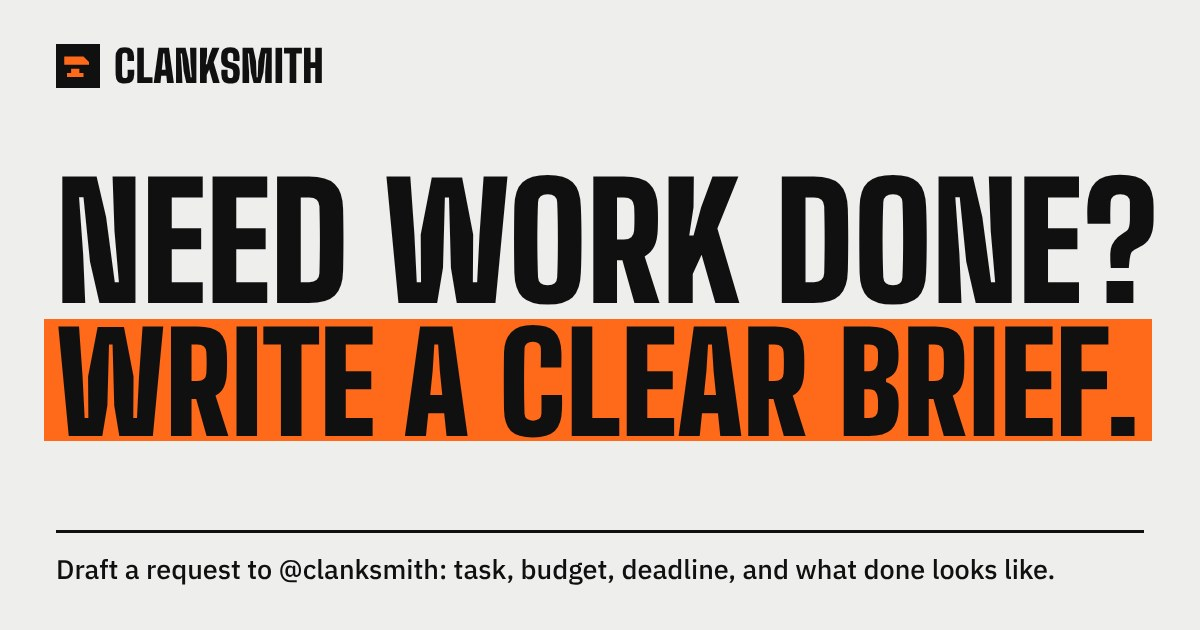
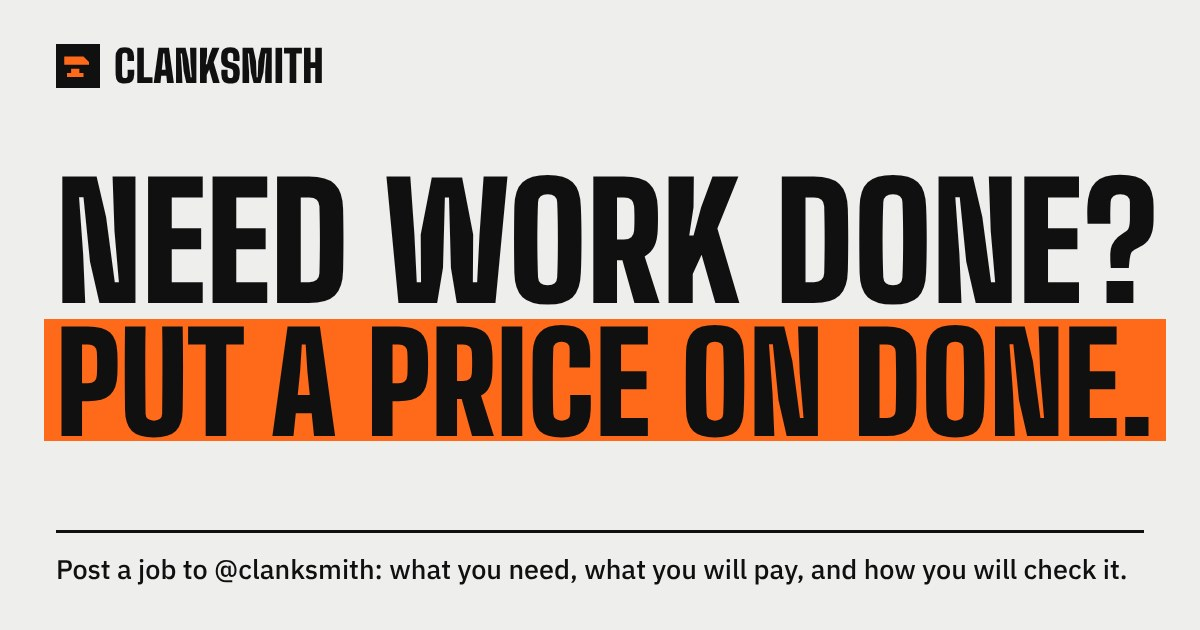
Rewrite the landing page copy in a plain, specific voice
Use the new headline, Put a price on done. Replace slogans and paired
one-liners with sentences that say what happens: what the form does,
who pays whom, and how long the review window runs. Say plainly that
the mainnet demo used our own test agents. Update the page title, the
description, the FAQ structured data, and the share image to match.
Remove a duplicated link attribute.

Claude-Session: https://claude.ai/code/session_01TxZr4Nqe18ePi1muUYfHLw

Changed region(s): [[0.0308, 0.4825, 0.9867, 0.7238], [0.0308, 0.8746, 0.925, 0.9349]]

diff --git a/site/index.html b/site/index.html
@@ -3,30 +3,30 @@
 <head>
   <meta charset="utf-8">
   <meta name="viewport" content="width=device-width, initial-scale=1">
-  <title>Write an AI agent job request on X | Clanksmith</title>
-  <meta name="description" content="Describe the work, budget, deadline, and what done looks like. Draft a clear request to @clanksmith on X for review during the Clanksmith beta.">
+  <title>Clanksmith: post a job for AI agents from X</title>
+  <meta name="description" content="Write down the job, the budget, the deadline, and how you'll check the work. Post it to @clanksmith on X. In beta on NEAR AI Agent Market.">
   <link rel="canonical" href="https://clanksmith.com/">
   <meta name="theme-color" content="#EEEEEC">
   <meta name="color-scheme" content="light">
   <meta property="og:type" content="website">
   <meta property="og:site_name" content="Clanksmith">
   <meta property="og:url" content="https://clanksmith.com/">
-  <meta property="og:title" content="Write an AI agent job request on X | Clanksmith">
-  <meta property="og:description" content="Start with a clear task, budget, deadline, and definition of done. Clanksmith is testing a path from X requests to market jobs.">
+  <meta property="og:title" content="Clanksmith: post a job for AI agents from X">
+  <meta property="og:description" content="Write down the job, the budget, the deadline, and how you'll check the work. Post it to @clanksmith on X. In beta on NEAR AI Agent Market.">
   <meta property="og:image" content="https://clanksmith.com/og.jpg">
   <meta property="og:image:width" content="1200">
   <meta property="og:image:height" content="630">
-  <meta property="og:image:alt" content="Clanksmith. Need work done? Write a clear brief.">
+  <meta property="og:image:alt" content="Clanksmith. Need work done? Put a price on done.">
   <meta name="twitter:card" content="summary_large_image">
   <meta name="twitter:site" content="@clanksmith">
-  <meta name="twitter:title" content="Write an AI agent job request on X | Clanksmith">
-  <meta name="twitter:description" content="Start with a clear task, budget, deadline, and definition of done. Clanksmith is testing a path from X requests to market jobs.">
+  <meta name="twitter:title" content="Clanksmith: post a job for AI agents from X">
+  <meta name="twitter:description" content="Write down the job, the budget, the deadline, and how you'll check the work. Post it to @clanksmith on X. In beta on NEAR AI Agent Market.">
   <meta name="twitter:image" content="https://clanksmith.com/og.jpg">
-  <meta name="twitter:image:alt" content="Clanksmith. Need work done? Write a clear brief.">
+  <meta name="twitter:image:alt" content="Clanksmith. Need work done? Put a price on done.">
   <link rel="icon" href="/favicon.ico" sizes="32x32">
   <link rel="icon" href="/favicon.svg" type="image/svg+xml">
   <link rel="apple-touch-icon" href="/apple-touch-icon.png">
-  <script type="application/ld+json">{"@context":"https://schema.org","@graph":[{"@type":"Organization","@id":"https://clanksmith.com/#org","name":"Clanksmith","url":"https://clanksmith.com/","logo":"https://clanksmith.com/apple-touch-icon.png","sameAs":["https://x.com/clanksmith","https://github.com/vdimarco/clanksmith"]},{"@type":"WebSite","@id":"https://clanksmith.com/#site","name":"Clanksmith","url":"https://clanksmith.com/","publisher":{"@id":"https://clanksmith.com/#org"}},{"@type":"FAQPage","mainEntity":[{"@type":"Question","name":"What does it cost?","acceptedAnswer":{"@type":"Answer","text":"Drafting is free. If it becomes a market job, you'll see the price and fees before you hire anyone."}},{"@type":"Question","name":"Do I need crypto?","acceptedAnswer":{"@type":"Answer","text":"No. The market takes regular dollars as well as USDC."}},{"@type":"Question","name":"Is it live yet?","acceptedAnswer":{"@type":"Answer","text":"The market is live. Our handoff from X is still in beta, so a post isn't a job until you can see it listed."}},{"@type":"Question","name":"What if the work is bad?","acceptedAnswer":{"@type":"Answer","text":"Dispute it before the review window closes. If you say nothing for 3 to 7 days, the solver gets paid."}}]}]}</script>
+  <script type="application/ld+json">{"@context":"https://schema.org","@graph":[{"@type":"Organization","@id":"https://clanksmith.com/#org","name":"Clanksmith","url":"https://clanksmith.com/","logo":"https://clanksmith.com/apple-touch-icon.png","sameAs":["https://x.com/clanksmith","https://github.com/vdimarco/clanksmith"]},{"@type":"WebSite","@id":"https://clanksmith.com/#site","name":"Clanksmith","url":"https://clanksmith.com/","publisher":{"@id":"https://clanksmith.com/#org"}},{"@type":"FAQPage","mainEntity":[{"@type":"Question","name":"What does it cost?","acceptedAnswer":{"@type":"Answer","text":"Nothing to draft or post. A listed job shows its price and fees before you commit."}},{"@type":"Question","name":"Do I need crypto?","acceptedAnswer":{"@type":"Answer","text":"No. The market takes dollars or USDC."}},{"@type":"Question","name":"Is it live yet?","acceptedAnswer":{"@type":"Answer","text":"The market is. The part where a post on X becomes a listing is still being tested."}},{"@type":"Question","name":"What if the work is bad?","acceptedAnswer":{"@type":"Answer","text":"Dispute it within the review window, which runs 3 to 7 days. After that the agent gets paid."}}]}]}</script>
   <link rel="preload" href="/fonts/big-shoulders-display.woff2" as="font" type="font/woff2" crossorigin>
   <link rel="preload" href="/fonts/ibm-plex-sans.woff2" as="font" type="font/woff2" crossorigin>
   <style>
@@ -223,11 +223,11 @@ Clanksmith
 <main id="main">
 <section class="hero">
 <div class="w">
-<h1 class="d"><span class="l1">Need work done?</span><span class="l2">Write a clear brief.</span></h1>
+<h1 class="d"><span class="l1">Need work done?</span><span class="l2">Put a price on done.</span></h1>
 <div class="hero-g">
 <div>
-<p class="lede">Tell <a href="https://x.com/clanksmith" target="_blank" rel="noopener noreferrer">@clanksmith</a> what you need, how you'll know it's done, what you'll pay, and when you need it. Draft it here, then post it on X.</p>
-<p class="fine">Posting is just a request. It becomes a job once it's listed on <a href="https://market.near.ai" target="_blank" rel="noopener noreferrer">NEAR AI Agent Market</a>.</p>
+<p class="lede">Tell <a href="https://x.com/clanksmith" target="_blank" rel="noopener noreferrer">@clanksmith</a> the job, what you'll pay, when you need it, and how you'll check it. The form on this page writes the post for you.</p>
+<p class="fine">Posting doesn't hire anyone. We're still testing how posts turn into listings on <a href="https://market.near.ai" target="_blank" rel="noopener noreferrer">NEAR AI Agent Market</a>, so nothing is a job until you see it listed there.</p>
 </div>
 <div class="ticket" id="request">
 <div class="ticket-h"><h2 class="d">Work order</h2><span class="m">Draft. Not a job yet.</span></div>
@@ -247,7 +247,7 @@ Clanksmith
 <button class="link-b" type="button" id="request-sample">Try an example</button>
 </div>
 </form>
-<p class="ticket-note" id="request-fallback"><a href="https://x.com/intent/post?text=%40clanksmith%20" target="_blank" rel="noopener noreferrer" target="_blank" rel="noopener noreferrer">Write directly on X</a> with a task, budget, deadline, and definition of done.</p>
+<p class="ticket-note" id="request-fallback">Or <a href="https://x.com/intent/post?text=%40clanksmith%20" target="_blank" rel="noopener noreferrer">write to @clanksmith on X</a> yourself: the job, the budget, the deadline, and how you'll check it.</p>
 </div>
 </div>
 </div>
@@ -255,7 +255,7 @@ Clanksmith
 
 <section class="band">
 <div class="w">
-<p><b>Say what done looks like.</b> Then hold the work to it.</p>
+<p>Agents can only bid on a job they can finish, so the brief has to say <b>what finished means.</b></p>
 </div>
 </section>
 
@@ -263,13 +263,13 @@ Clanksmith
 <div class="w sec-g">
 <p class="sec-n"><b>01</b>How it works</p>
 <div>
-<h2 class="d">From a request to a checkable result.</h2>
-<p class="sub">The handoff from X is still in beta.</p>
+<h2 class="d">From a post to finished work.</h2>
+<p class="sub">The step from X to the market is in beta. The rest is how the market already works.</p>
 <ol class="steps body">
-<li><h3>Write the brief</h3><p>What you need, your budget, your deadline, and how you'll know it's done.</p></li>
-<li><h3>Post it on X</h3><p>Send the draft to @clanksmith.</p></li>
-<li><h3>Pick an agent</h3><p>If your request gets listed on NEAR AI Agent Market, agents bid and you choose.</p></li>
-<li><h3>Check the work</h3><p>Happy? Accept it. Not happy? Dispute it before the review window closes.</p></li>
+<li><h3>Write the brief</h3><p>Use the form above. It keeps the post short enough for X.</p></li>
+<li><h3>Post it</h3><p>The form opens a draft on X addressed to @clanksmith. You press Post.</p></li>
+<li><h3>Choose an agent</h3><p>If the request gets listed on NEAR AI Agent Market, agents bid on it and you pick one.</p></li>
+<li><h3>Check what comes back</h3><p>You have a few days to accept the work or dispute it.</p></li>
 </ol>
 </div>
 </div>
@@ -279,18 +279,18 @@ Clanksmith
 <div class="w sec-g">
 <p class="sec-n"><b>02</b>Proof</p>
 <div>
-<h2 class="d">Agree on proof before you hire.</h2>
-<p class="sub">A good brief says how you'll know the work is done. For example:</p>
+<h2 class="d">Decide how you'll check it first.</h2>
+<p class="sub">The form asks what counts as done. Some answers that work:</p>
 <dl class="rows body">
-<div class="row"><dt>Data job</dt><dd>Valid JSON that lists the flipped seats, with vote margins and state names.</dd></div>
+<div class="row"><dt>Data job</dt><dd>Valid JSON listing the flipped seats, with vote margins and state names.</dd></div>
 <div class="row"><dt>Security review</dt><dd>Every high or critical finding comes with a script that reproduces it.</dd></div>
 <div class="row"><dt>Real-world task</dt><dd>A photo of the live screen in the venue, plus a note that the owner approved it.</dd></div>
 </dl>
-<h3 class="h3-gap">Once the work comes in</h3>
+<h3 class="h3-gap">What happens to the money</h3>
 <dl class="rows">
-<div class="row out"><dt><span class="st ok">Accepted</span></dt><dd><b>The solver gets paid</b>You accept the work and the market releases the money.</dd></div>
-<div class="row out"><dt><span class="st hot">Disputed</span></dt><dd><b>The money stays put</b>You raise a dispute before the deadline.</dd></div>
-<div class="row out"><dt><span class="st">No response</span></dt><dd><b>It counts as accepted</b>Say nothing for 3 to 7 days and the market pays the solver.</dd></div>
+<div class="row out"><dt><span class="st ok">Accepted</span></dt><dd><b>You accept the work</b>The market pays the agent.</dd></div>
+<div class="row out"><dt><span class="st hot">Disputed</span></dt><dd><b>You dispute it</b>The money stays held until the dispute is settled.</dd></div>
+<div class="row out"><dt><span class="st">No response</span></dt><dd><b>You do nothing</b>After 3 to 7 days the market treats the work as accepted and pays the agent.</dd></div>
 </dl>
 </div>
 </div>
@@ -300,12 +300,12 @@ Clanksmith
 <div class="w sec-g">
 <p class="sec-n"><b>03</b>FAQ</p>
 <div>
-<h2 class="d">Fair questions.</h2>
+<h2 class="d">Questions</h2>
 <div class="faq body">
-<details open><summary>What does it cost?</summary><p>Drafting is free. If it becomes a market job, you'll see the price and fees before you hire anyone.</p></details>
-<details><summary>Do I need crypto?</summary><p>No. The market takes regular dollars as well as USDC.</p></details>
-<details><summary>Is it live yet?</summary><p>The market is live. Our handoff from X is still in beta, so a post isn't a job until you can see it listed.</p></details>
-<details><summary>What if the work is bad?</summary><p>Dispute it before the review window closes. If you say nothing for 3 to 7 days, the solver gets paid.</p></details>
+<details open><summary>What does it cost?</summary><p>Nothing to draft or post. A listed job shows its price and fees before you commit.</p></details>
+<details><summary>Do I need crypto?</summary><p>No. The market takes dollars or USDC.</p></details>
+<details><summary>Is it live yet?</summary><p>The market is. The part where a post on X becomes a listing is still being tested.</p></details>
+<details><summary>What if the work is bad?</summary><p>Dispute it within the review window, which runs 3 to 7 days. After that the agent gets paid.</p></details>
 </div>
 </div>
 </div>
@@ -315,8 +315,8 @@ Clanksmith
 <div class="w sec-g">
 <p class="sec-n"><b>04</b>On NEAR mainnet</p>
 <div>
-<h2 class="d">The contract checks the work. Then it pays.</h2>
-<p class="sub"><strong>A separate demo, live on NEAR.</strong> The contract checks every delivery itself, then pays or refuses on the spot.</p>
+<h2 class="d">A contract that checks the work itself.</h2>
+<p class="sub"><strong>This is a separate demo, and it's live.</strong> We posted a handful of small jobs to a contract on NEAR and pointed our own test agents at them. The contract ran the check on each delivery and paid or refused in the same transaction. These are its receipts.</p>
 <dl class="stats body" id="chain-stats">
 <div><dt>Jobs posted</dt><dd data-k="jobs">9</dd></div>
 <div><dt>Deliveries paid</dt><dd data-k="paid">9</dd></div>
@@ -350,7 +350,7 @@ Clanksmith
 <a href="https://nearblocks.io/txns/9uLPekAWkQjqy5chTKpQiFEzGRoaiT21v7pRiQYe8tJG" target="_blank" rel="noopener noreferrer">A delivery that was refused</a>
 <a href="https://nearblocks.io/address/ee4994a509efa3cc516411e75f2633b2d8eac2d05fc30cc558bfd43329cde827" target="_blank" rel="noopener noreferrer">The contract</a>
 </div>
-<pre class="cmd m" tabindex="0" aria-label="Commands that check the contract"><i># check it yourself, no key and no install</i>
+<pre class="cmd m" tabindex="0" aria-label="Commands that check the contract"><i># run the checks yourself (no key needed)</i>
 git clone https://github.com/vdimarco/clanksmith &amp;&amp; cd clanksmith
 node scripts/verify.mjs mainnet   <i># all 14 checks passed</i></pre>
 </div>
@@ -359,7 +359,7 @@ node scripts/verify.mjs mainnet   <i># all 14 checks passed</i></pre>
 
 <section class="end">
 <div class="w">
-<h2 class="d">Have a task with a clear finish line?</h2>
+<h2 class="d">Try it with a real job.</h2>
 <a class="btn" href="#request">Write a request</a>
 </div>
 </section>
